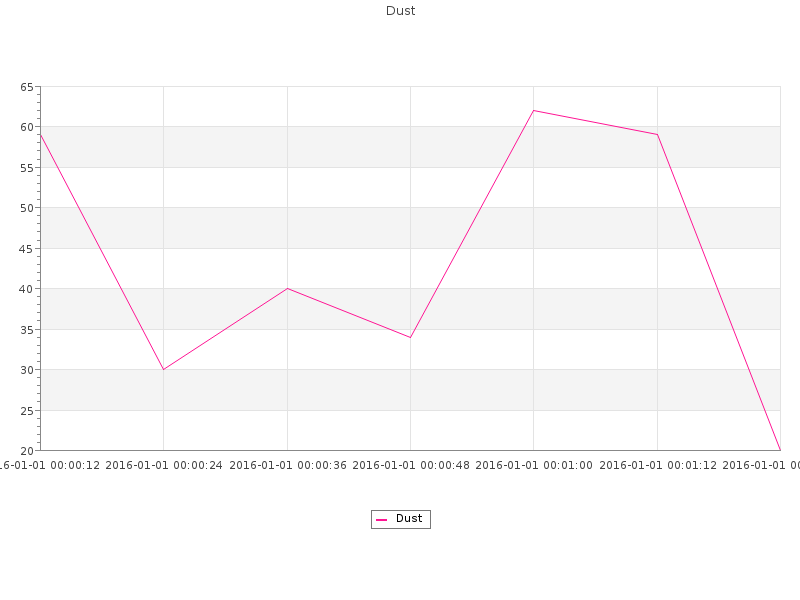
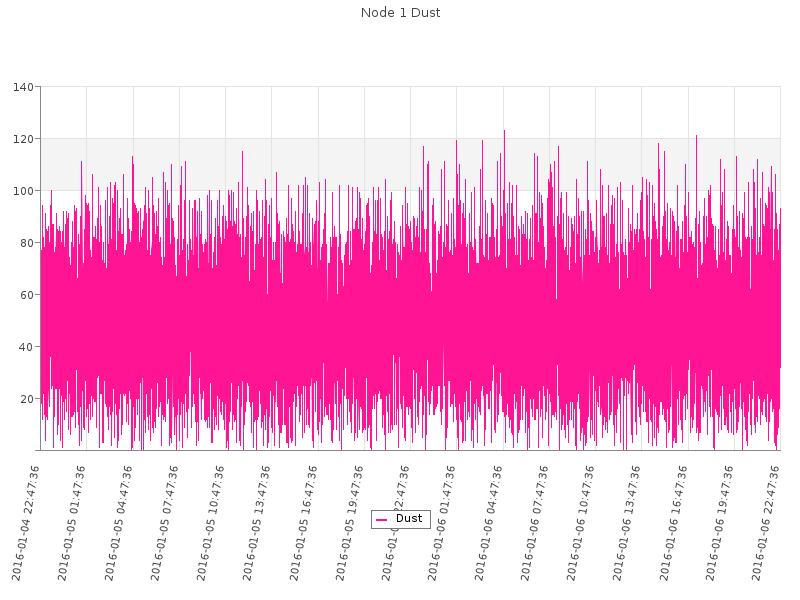
Continued graph work to try and tidy up labels

diff --git a/graph.php b/graph.php
@@ -8,6 +8,7 @@ require_once ('jpgraph/jpgraph.php');
 require_once ('jpgraph/jpgraph_line.php');
 require_once ('jpgraph/jpgraph_date.php');
 require_once ('jpgraph/jpgraph_error.php');
+require_once ('jpgraph/jpgraph_utils.inc.php');
 $db = new DBManager();
 $result = NULL;
 if ($_SERVER['REQUEST_METHOD'] == 'POST') {
@@ -17,9 +18,18 @@ if ($_SERVER['REQUEST_METHOD'] == 'POST') {
 	$result = $db->execute($sp);
 }
 
-function make_base_graph($title, $x_data) {
+/* Time intervals used for graphing 
+ with a sampling rate of 12 seconds */
+$sec_interval = 5; // 5 samples in 1 minute
+$min_interval = 300; // 300 samples in 1 hour
+$hour_interval = 7200; // 7200 samples in 1 day
+$day_interval = 50400; // 50400 samples in 1 week
+$week_interval = 201600; // 201600 samples in 28 days
+$month_interval = 2419200; // 2419200 samples in 12*28 days
+
+function make_base_graph($title, $time) {
 	$graph = new Graph(800,600);
-	$graph->SetScale("datlin");
+	$graph->SetScale("datint");
 	$theme_class = new UniversalTheme;
 	$graph->SetTheme($theme_class);
 	$graph->img->SetAntiAliasing(false);
@@ -30,11 +40,33 @@ function make_base_graph($title, $x_data) {
 	$graph->yaxis->HideZeroLabel();
 	$graph->yaxis->HideLine(false);
 	$graph->yaxis->HideTicks(false,false);
-	
+		
 	$graph->xgrid->Show();
 	$graph->xgrid->SetLineStyle("solid");
-	$graph->xaxis->SetTickLabels($x_data);
+	$graph->xaxis->SetLabelAngle(80);
 	$graph->xgrid->SetColor('#E3E3E3');
+	
+	$samples = count($time);
+	if ($samples <= $sec_interval) {
+		$graph ->xaxis->scale->SetDateFormat('i:s');
+		//$graph->xaxis->SetTextLabelInterval(2);
+	} elseif ($samples <= $min_interval) {
+		$graph ->xaxis->scale->SetDateFormat('H:i');
+		//$graph->xaxis->SetTextLabelInterval(2);
+	} elseif ($samples <= $hour_interval) {
+		$graph ->xaxis->scale->SetDateFormat('d H:i');
+		//$graph->xaxis->SetTextLabelInterval(2);
+	} elseif ($samples <= $day_interval) {
+		$graph ->xaxis->scale->SetDateFormat('d H:i');
+		//$graph->xaxis->SetTextLabelInterval(2);
+	} elseif ($samples <= $week_interval) {
+		$graph ->xaxis->scale->SetDateFormat('m-d H:i:s');
+		//$graph->xaxis->SetTextLabelInterval(2);
+	} else {
+		$graph ->xaxis->scale->SetDateFormat('Y-m-d H:i:s');
+		//$graph->xaxis->SetTextLabelInterval(2);
+	}
+	$graph->xaxis->SetTickLabels($time);
 	return $graph;
 }
 ?>
@@ -46,6 +78,7 @@ function make_base_graph($title, $x_data) {
 		<meta http-equiv="X-UA-Compatible" content="IE=edge">
 		<meta name="viewport" content="width=device-width, initial-scale=1">
 		<link href="css/bootstrap.min.css" rel="stylesheet">
+		<link href="css/bootstrap-datetimepicker.css" rel="stylesheet">
 		<link href="css/over.css" rel="stylesheet">
 		<script src="js/jquery.min.js"></script>
 		<script src="js/bootstrap.min.js"></script>
@@ -107,23 +140,23 @@ function make_base_graph($title, $x_data) {
 			</div>
 		</div>
 		<?php
+		$node_id = 0;
 		$time_data = array();
 		$temp_data = array();
 		$hum_data = array();
 		$dust_data = array();
 		if (!is_null($result)) {
-			$i = 0;
-			while (($curr_row = $result->fetch_assoc()) && $i < 7) {
+			while ($curr_row = $result->fetch_assoc()) {
 				$time_data[] = date("Y-m-d H:i:s", strtotime($curr_row["timestamp"]));
 				$temp_data[] = $curr_row["temperature"];
 				$hum_data[] = $curr_row["humidity"];
 				$dust_data[] = $curr_row["dust"];
-				$i++;
+				$node_id = $curr_row["node_id"];
 			}
 			$result->free();
-			$temp_graph = make_base_graph("Temperature", $time_data);
-			$hum_graph = make_base_graph("Humidity", $time_data);
-			$dust_graph = make_base_graph("Dust", $time_data);
+			$temp_graph = make_base_graph("Node $node_id Temperature", $time_data);
+			$hum_graph = make_base_graph("Node $node_id Humidity", $time_data);
+			$dust_graph = make_base_graph("Node $node_id Dust", $time_data);
 			
 			// Filter data length here
 			
@@ -161,9 +194,11 @@ function make_base_graph($title, $x_data) {
 			<div class="panel-body">
 			<?php
 			if (!is_null($result)) {
+				echo '<center>';
 				echo '<img src="temp_graph.jpg"></img><br>';
 				echo '<img src="hum_graph.jpg"></img><br>';
 				echo '<img src="dust_graph.jpg"></img><br>';
+				echo '</center>';
 			}
 			?>
 			</div>
